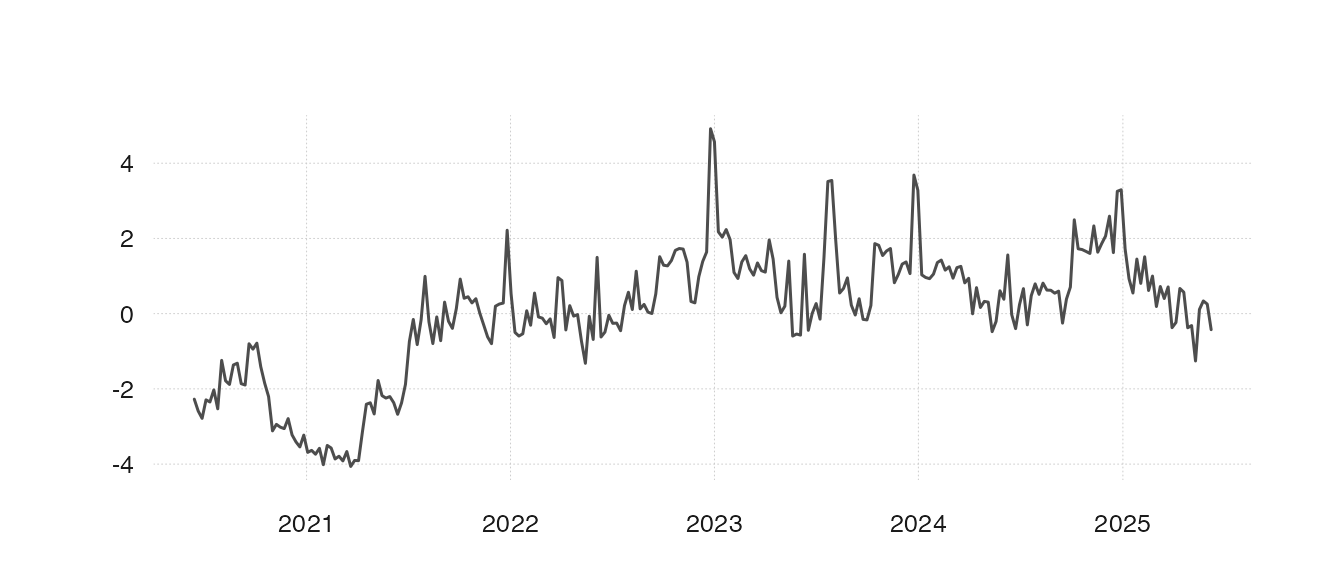
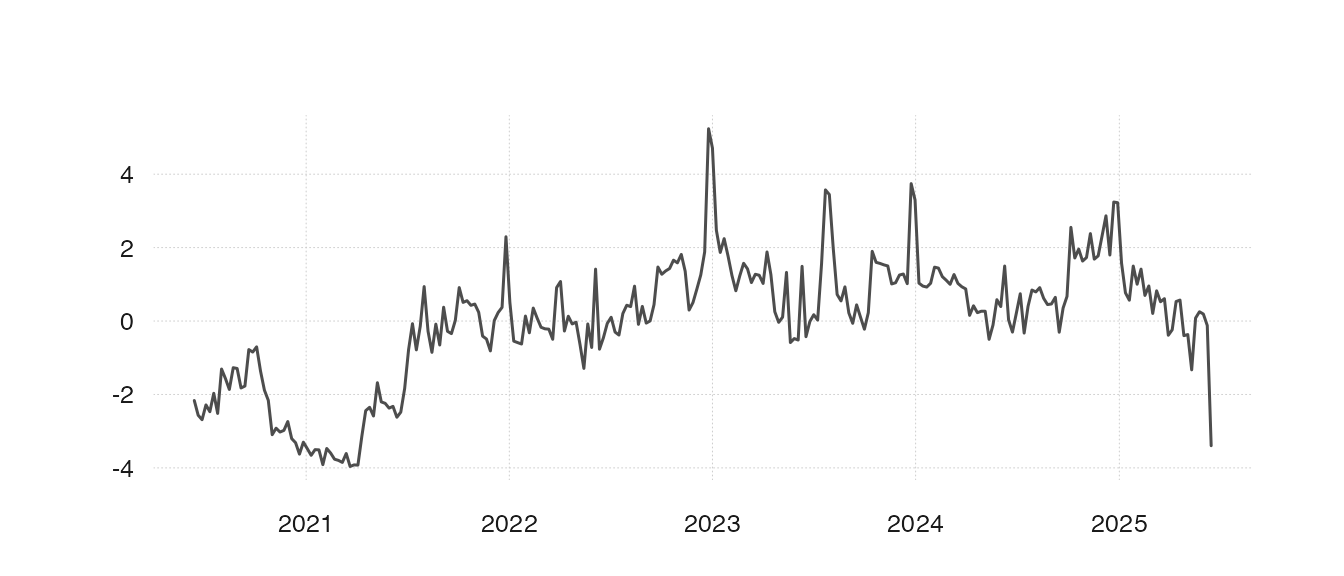
Deploy from Github Actions build 15659480688 [ci skip]
Build URL: https://github.com/trendecon/trendecon/actions/runs/15659480688
Commit: 213881ece17ef253cdcbf51aa3e91eeff5a1deed

diff --git a/reference/ts_gtrends.html b/reference/ts_gtrends.html
@@ -170,20 +170,20 @@ either the keyword, or the category.</p>
 <span class="r-in"><span><span class="va">x</span> <span class="op">&lt;-</span> <span class="fu">ts_gtrends</span><span class="op">(</span><span class="st">"Rezession"</span><span class="op">)</span></span></span>
 <span class="r-msg co"><span class="r-pr">#&gt;</span> Downloading data for today+5-y</span>
 <span class="r-in"><span><span class="va">x</span></span></span>
-<span class="r-out co"><span class="r-pr">#&gt;</span> <span style="color: #949494;"># A tibble: 261 × 2</span></span>
+<span class="r-out co"><span class="r-pr">#&gt;</span> <span style="color: #949494;"># A tibble: 262 × 2</span></span>
 <span class="r-out co"><span class="r-pr">#&gt;</span>    time       value</span>
 <span class="r-out co"><span class="r-pr">#&gt;</span>    <span style="color: #949494; font-style: italic;">&lt;date&gt;</span>     <span style="color: #949494; font-style: italic;">&lt;int&gt;</span></span>
-<span class="r-out co"><span class="r-pr">#&gt;</span> <span style="color: #BCBCBC;"> 1</span> 2020-06-14    25</span>
-<span class="r-out co"><span class="r-pr">#&gt;</span> <span style="color: #BCBCBC;"> 2</span> 2020-06-21    27</span>
-<span class="r-out co"><span class="r-pr">#&gt;</span> <span style="color: #BCBCBC;"> 3</span> 2020-06-28    17</span>
-<span class="r-out co"><span class="r-pr">#&gt;</span> <span style="color: #BCBCBC;"> 4</span> 2020-07-05    17</span>
-<span class="r-out co"><span class="r-pr">#&gt;</span> <span style="color: #BCBCBC;"> 5</span> 2020-07-12    19</span>
-<span class="r-out co"><span class="r-pr">#&gt;</span> <span style="color: #BCBCBC;"> 6</span> 2020-07-19    18</span>
-<span class="r-out co"><span class="r-pr">#&gt;</span> <span style="color: #BCBCBC;"> 7</span> 2020-07-26    22</span>
-<span class="r-out co"><span class="r-pr">#&gt;</span> <span style="color: #BCBCBC;"> 8</span> 2020-08-02    16</span>
-<span class="r-out co"><span class="r-pr">#&gt;</span> <span style="color: #BCBCBC;"> 9</span> 2020-08-09    16</span>
+<span class="r-out co"><span class="r-pr">#&gt;</span> <span style="color: #BCBCBC;"> 1</span> 2020-06-14    19</span>
+<span class="r-out co"><span class="r-pr">#&gt;</span> <span style="color: #BCBCBC;"> 2</span> 2020-06-21    25</span>
+<span class="r-out co"><span class="r-pr">#&gt;</span> <span style="color: #BCBCBC;"> 3</span> 2020-06-28    18</span>
+<span class="r-out co"><span class="r-pr">#&gt;</span> <span style="color: #BCBCBC;"> 4</span> 2020-07-05    12</span>
+<span class="r-out co"><span class="r-pr">#&gt;</span> <span style="color: #BCBCBC;"> 5</span> 2020-07-12    21</span>
+<span class="r-out co"><span class="r-pr">#&gt;</span> <span style="color: #BCBCBC;"> 6</span> 2020-07-19    20</span>
+<span class="r-out co"><span class="r-pr">#&gt;</span> <span style="color: #BCBCBC;"> 7</span> 2020-07-26    19</span>
+<span class="r-out co"><span class="r-pr">#&gt;</span> <span style="color: #BCBCBC;"> 8</span> 2020-08-02    17</span>
+<span class="r-out co"><span class="r-pr">#&gt;</span> <span style="color: #BCBCBC;"> 9</span> 2020-08-09    19</span>
 <span class="r-out co"><span class="r-pr">#&gt;</span> <span style="color: #BCBCBC;">10</span> 2020-08-16    20</span>
-<span class="r-out co"><span class="r-pr">#&gt;</span> <span style="color: #949494;"># ℹ 251 more rows</span></span>
+<span class="r-out co"><span class="r-pr">#&gt;</span> <span style="color: #949494;"># ℹ 252 more rows</span></span>
 <span class="r-in"><span><span class="fu">tsbox</span><span class="fu">::</span><span class="fu"><a href="https://docs.ropensci.org/tsbox/reference/ts_plot.html" class="external-link">ts_plot</a></span><span class="op">(</span><span class="va">x</span><span class="op">)</span></span></span>
 <span class="r-plt img"><img src="ts_gtrends-1.png" alt="" width="700" height="433"></span>
 </code></pre></div>

diff --git a/reference/ts_gtrends_index.html b/reference/ts_gtrends_index.html
@@ -132,9 +132,27 @@ normalized.</p></dd>
     <h2>Examples</h2>
     <div class="sourceCode"><pre class="sourceCode r"><code><span class="r-in"><span></span></span>
 <span class="r-in"><span><span class="fu">tsbox</span><span class="fu">::</span><span class="fu"><a href="https://docs.ropensci.org/tsbox/reference/ts_plot.html" class="external-link">ts_plot</a></span><span class="op">(</span><span class="fu">ts_gtrends_index</span><span class="op">(</span><span class="fu"><a href="https://rdrr.io/r/base/c.html" class="external-link">c</a></span><span class="op">(</span> <span class="st">"Mango"</span>, <span class="st">"Zara"</span><span class="op">)</span><span class="op">)</span><span class="op">)</span></span></span>
-<span class="r-msg co"><span class="r-pr">#&gt;</span> Downloading data for 2007-01-01 2025-06-14</span>
-<span class="r-msg co"><span class="r-pr">#&gt;</span> Downloading data for 2007-01-01 2025-06-14</span>
-<span class="r-plt img"><img src="ts_gtrends_index-1.png" alt="" width="700" height="433"></span>
+<span class="r-msg co"><span class="r-pr">#&gt;</span> Downloading data for 2007-01-01 2025-06-15</span>
+<span class="r-msg co"><span class="r-pr">#&gt;</span> Server response: 429 - too many requests</span>
+<span class="r-msg co"><span class="r-pr">#&gt;</span> Waiting for 5 seconds</span>
+<span class="r-msg co"><span class="r-pr">#&gt;</span> Retrying...</span>
+<span class="r-msg co"><span class="r-pr">#&gt;</span> Attempt 2/5</span>
+<span class="r-msg co"><span class="r-pr">#&gt;</span> Server response: 429 - too many requests</span>
+<span class="r-msg co"><span class="r-pr">#&gt;</span> Waiting for 10 seconds</span>
+<span class="r-msg co"><span class="r-pr">#&gt;</span> Retrying...</span>
+<span class="r-msg co"><span class="r-pr">#&gt;</span> Attempt 3/5</span>
+<span class="r-msg co"><span class="r-pr">#&gt;</span> Server response: 429 - too many requests</span>
+<span class="r-msg co"><span class="r-pr">#&gt;</span> Waiting for 15 seconds</span>
+<span class="r-msg co"><span class="r-pr">#&gt;</span> Retrying...</span>
+<span class="r-msg co"><span class="r-pr">#&gt;</span> Attempt 4/5</span>
+<span class="r-msg co"><span class="r-pr">#&gt;</span> Server response: 429 - too many requests</span>
+<span class="r-msg co"><span class="r-pr">#&gt;</span> Waiting for 20 seconds</span>
+<span class="r-msg co"><span class="r-pr">#&gt;</span> Retrying...</span>
+<span class="r-msg co"><span class="r-pr">#&gt;</span> Attempt 5/5</span>
+<span class="r-msg co"><span class="r-pr">#&gt;</span> Server response: 429 - too many requests</span>
+<span class="r-msg co"><span class="r-pr">#&gt;</span> Waiting for 25 seconds</span>
+<span class="r-msg co"><span class="r-pr">#&gt;</span> Retrying...</span>
+<span class="r-err co"><span class="r-pr">#&gt;</span> <span class="error">Error in gtrends_with_backoff(keyword, geo, time, gprop, category, hl,     low_search_volume, cookie_url, tz, onlyInterest, retry, wait,     quiet, attempt + 1):</span> Retries exhausted!</span>
 </code></pre></div>
     </div>
   </div>

diff --git a/articles/intro.html b/articles/intro.html
@@ -145,7 +145,7 @@ score):</p>
 <span><span class="co">#&gt;   id     time       value</span></span>
 <span><span class="co">#&gt;   <span style="color: #949494; font-style: italic;">&lt;chr&gt;</span>  <span style="color: #949494; font-style: italic;">&lt;date&gt;</span>     <span style="color: #949494; font-style: italic;">&lt;int&gt;</span></span></span>
 <span><span class="co">#&gt; <span style="color: #BCBCBC;">1</span> cinema 2020-06-14    18</span></span>
-<span><span class="co">#&gt; <span style="color: #BCBCBC;">2</span> cinema 2020-06-21    16</span></span>
+<span><span class="co">#&gt; <span style="color: #BCBCBC;">2</span> cinema 2020-06-21    17</span></span>
 <span><span class="co">#&gt; <span style="color: #BCBCBC;">3</span> cinema 2020-06-28    18</span></span>
 <span><span class="co">#&gt; <span style="color: #BCBCBC;">4</span> cinema 2020-07-05    20</span></span>
 <span><span class="co">#&gt; <span style="color: #BCBCBC;">5</span> cinema 2020-07-12    23</span></span>
